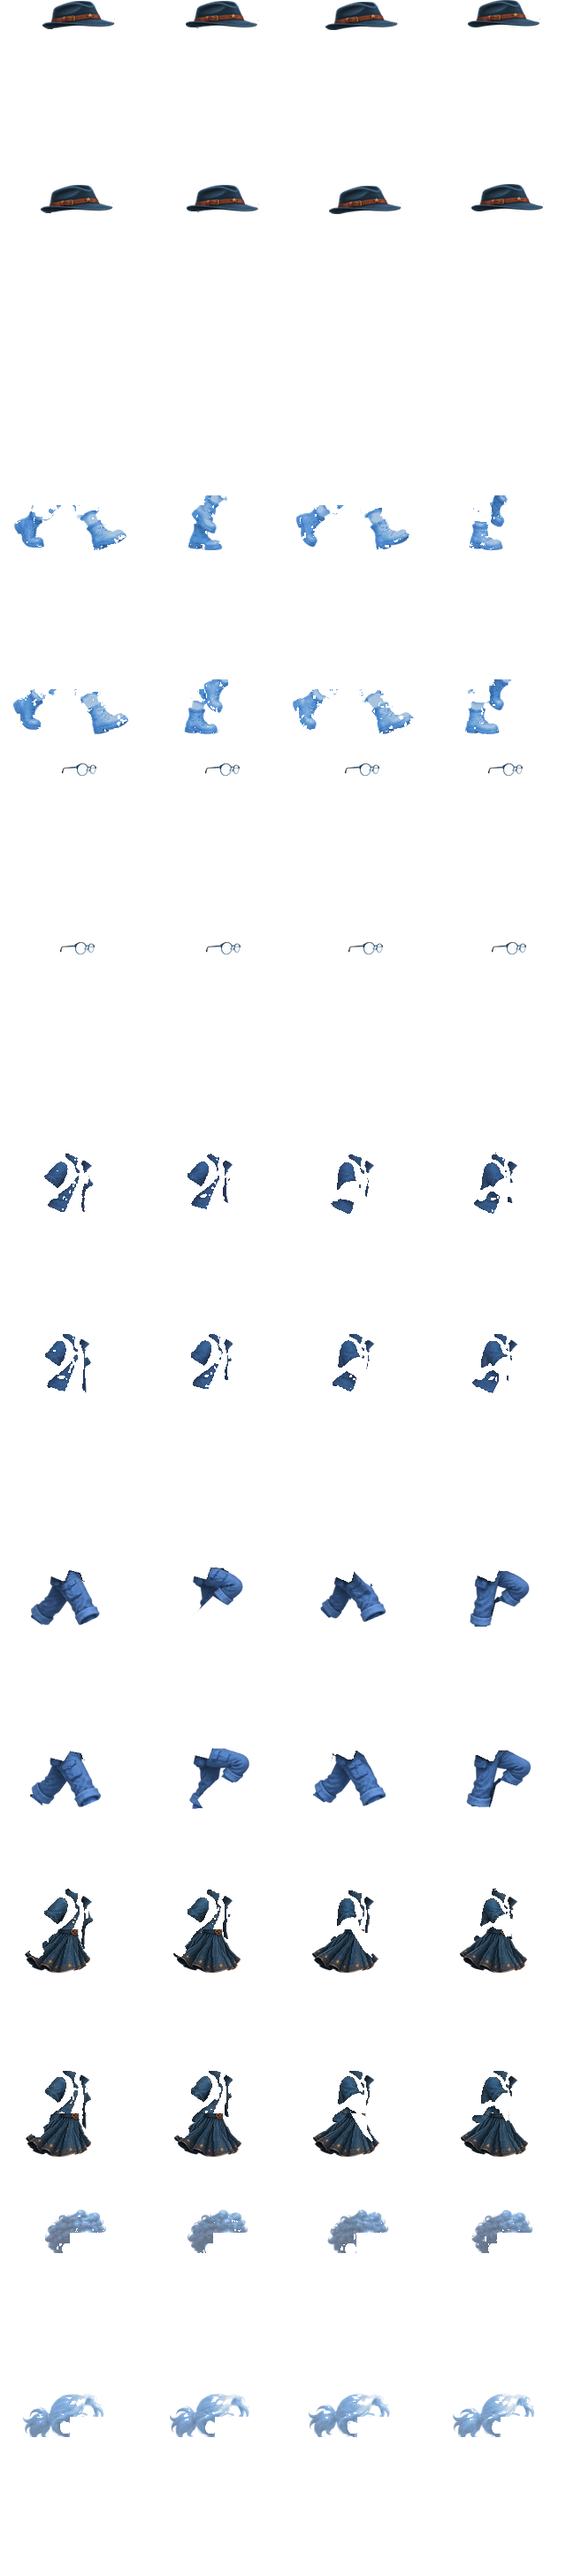
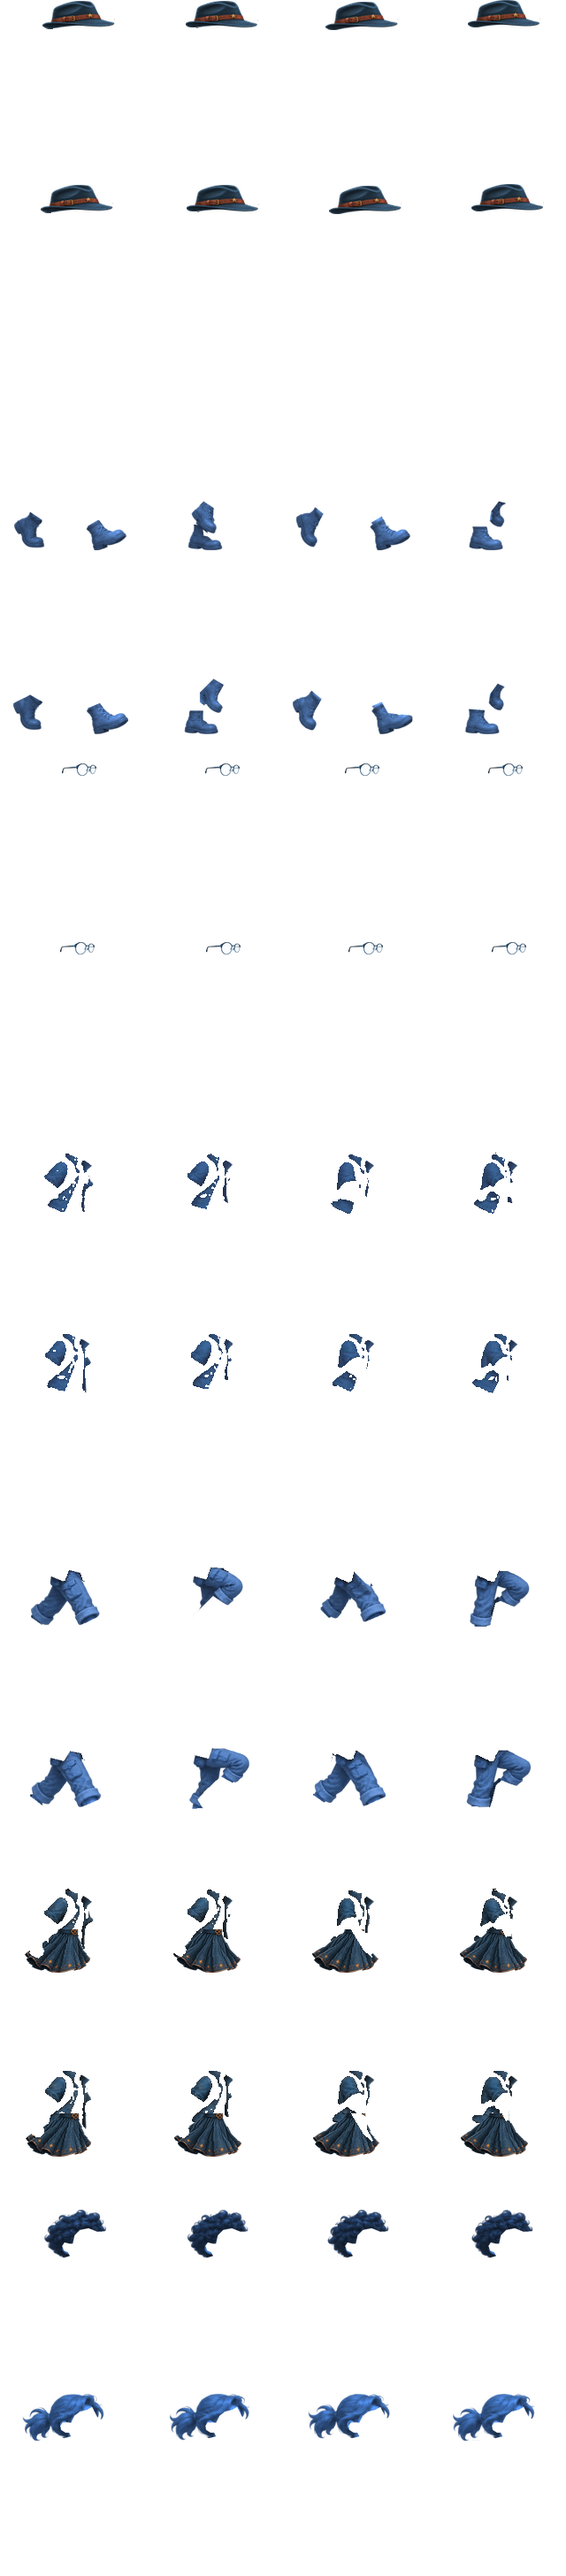
Switch dress to trouser-free walking poses and fit hair and boots per frame

diff --git a/explorer-creator.css b/explorer-creator.css
@@ -24,3 +24,4 @@
 
 .personal-explorer .explorer-body{position:absolute;inset:0;background:url('/assets/spellmaster/explorer-walk.webp') 0 var(--pose-row)/400% 600% no-repeat;background-position-x:inherit}
 .personal-explorer.wearing-hat :is(.explorer-body,.explorer-hair){clip-path:polygon(0 0,38% 0,33% 12%,83% 12%,83% 0,100% 0,100% 100%,0 100%)}
+.personal-explorer.wearing-dress .explorer-body{background-image:url('/assets/spellmaster/explorer-dress-walk.webp')}

diff --git a/explorer-creator.js b/explorer-creator.js
@@ -5,6 +5,7 @@
  function sprite(value,equipped=[],colours={}){
   const el=document.createElement('span');
   el.className='personal-explorer';
+  if(equipped.includes(layers[5]))el.classList.add('wearing-dress');
   if(equipped.includes(layers[0]))el.classList.add('wearing-hat');
   el.setAttribute('aria-hidden','true');
   el.style.setProperty('--pose-row',value*20+'%');
